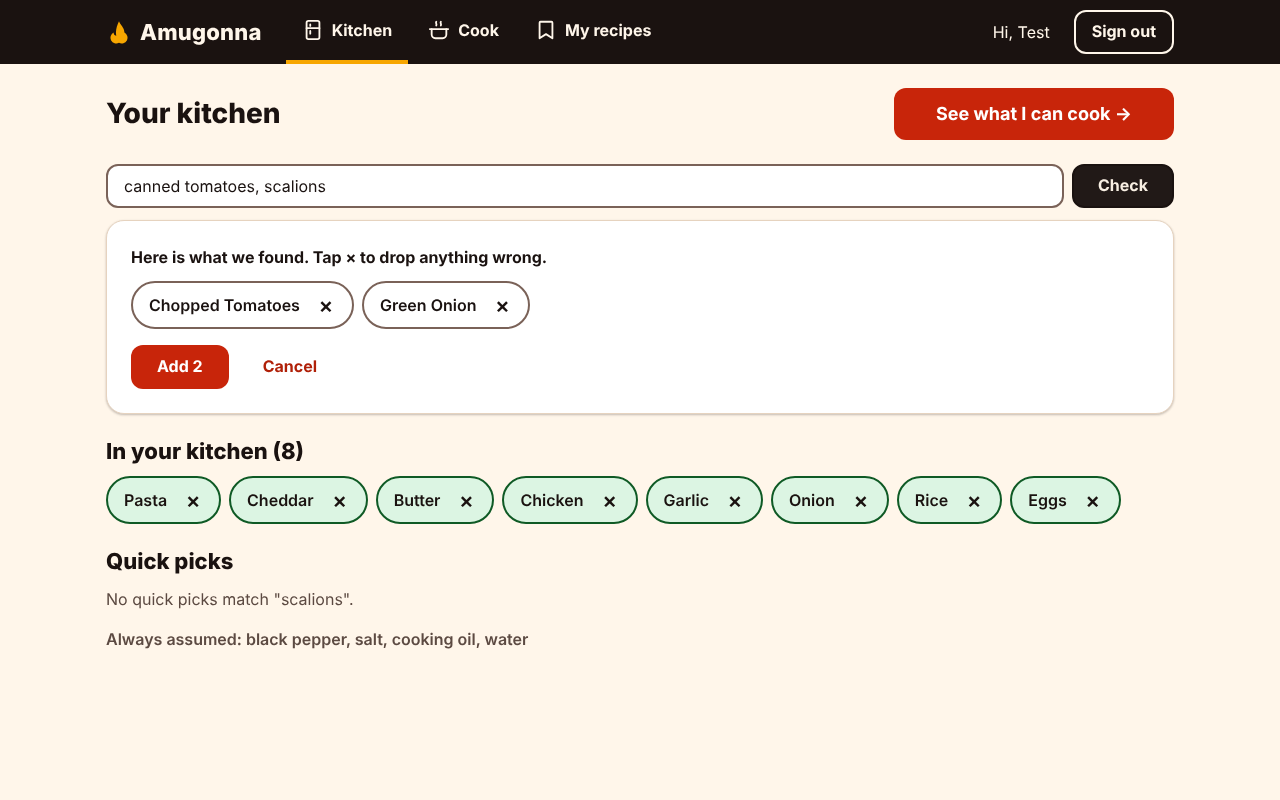
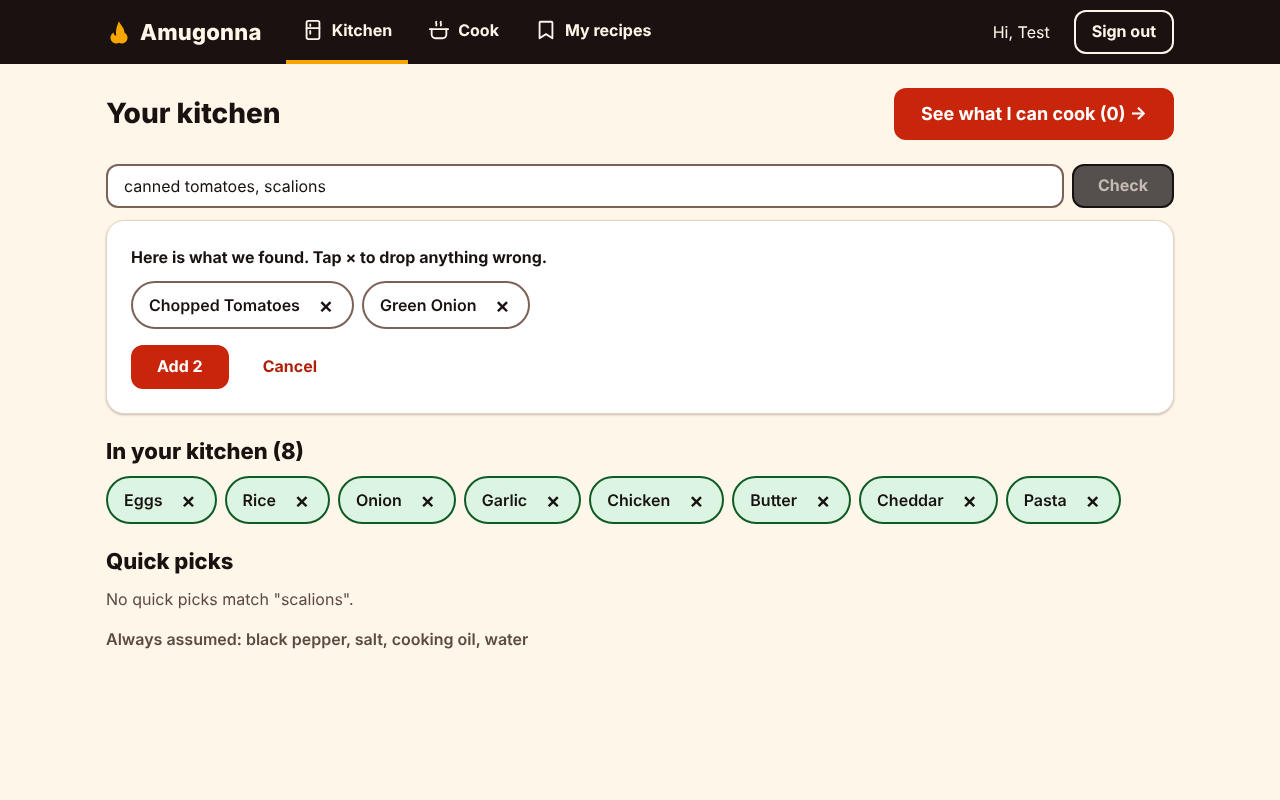
chief: M1 report, scorecard, state
Claude-Session: https://claude.ai/code/session_015cfRsG7aAS7fevAG5pef3S

Changed region(s): [[0.0938, 0.5938, 0.8438, 0.6562], [0.8125, 0.1875, 0.9375, 0.2812], [0.7188, 0.125, 0.9062, 0.1562]]

diff --git a/docs/milestones/M1.md b/docs/milestones/M1.md
@@ -1,37 +1,111 @@
-# Milestone 1: Cook from my pantry — PLAN
-
-_Plan written 2026-10-28 by chief (unattended cloud run). The owner pre-authorised this build in the scheduled prompt of 2026-10-28; the report replaces this page at milestone end._
+# Milestone 1: Cook from my pantry
 
 **Done-gate:** "On my phone or my computer I put what's in my fridge and pantry into Amugonna, and within seconds of finishing I see recipes I can make with it, open one, and cook the meal from that screen."
 
-Exercised as: a Playwright run at 390x844 (phone) and 1280x800 (desktop) that signs up, ticks common items + types free-text items, sees a non-empty "Cook now" list, opens a recipe and sees ingredients (have / missing) and numbered steps. Results must render in under 1 second after the pantry is saved.
+**Status:** passes in automated runs at phone (390x844) and desktop (1280x800) sizes against the real server and database. You have not tried it yet.
 
-## Recipe source, in one line
-Bulk-scraping recipe sites into a public app is legally risky, so the base is the free, licence-clean TheMealDB catalogue (imported with attribution into our own Postgres by a script, not committed to git); social-media / URL recipes come later as a user's own "bring your own" import that is never redistributed.
+- **Speed:** "Cook now" shows 100–330 ms after you tap "See what I can cook" (e2e log, both sizes). Free text is checked in about 145 ms. With 98 pantry items, Kitchen loads in about 180 ms and Cook in about 140 ms (final QA pass).
+- **Real recipe base:** a full TheMealDB import ran in GitHub Actions (this sandbox can't reach themealdb.com): **790 recipes**, 0 failures. **97.0%** of ingredient lines (8,090 of 8,336) are recognised by our ingredient vocabulary. Results for three reference pantries ([details](../chief/research/mealdb-live-2026-10-28.md)):
 
-## Scope
+  | Pantry | Cook now | 1 ingredient away |
+  |---|---|---|
+  | 8 basics (eggs, rice, onion, garlic, chicken, pasta, tinned tomatoes, cheddar) | 0 | 14 |
+  | + butter, milk, flour, sugar, lemon, potato, carrot, bread (16) | 8 | 51 |
+  | well stocked (34) | 24 | 69 |
+- **No false "you have it":** the final QA pass checked every "Cook now" recipe for 5 different pantries ingredient by ingredient and found no recipe recommended that you can't make. Substitutions are always shown ("using parmesan for feta").
+- **Tests at the head:** server 679 and client 95 unit/integration tests; 8 Playwright e2e specs (done-gate, Cook-tab race, CTA count under slow network, phone confirm tap), each on phone and desktop sizes; GitHub CI green. _(Final numbers re-checked at hand-over; see the PR checks.)_
 
-| Issue | What | Specialist | Blocked by |
-|---|---|---|---|
-| [#2](https://github.com/thomas-tahk/amugonna/issues/2) | Foundation: tests, CI, Prisma migrations, remove sync-docs, fresh docs | backend-engineer | — |
-| [#3](https://github.com/thomas-tahk/amugonna/issues/3) | Ingredient normalizer: canonical names, synonyms, plurals, hierarchy, staples, fuzzy suggest | backend-engineer | — |
-| [#4](https://github.com/thomas-tahk/amugonna/issues/4) | Design system + app shell (saturated, high contrast, phone + desktop) | frontend-engineer | — |
-| [#5](https://github.com/thomas-tahk/amugonna/issues/5) | Recipe schema + TheMealDB importer + new seed | database-engineer | #2, #3 |
-| [#6](https://github.com/thomas-tahk/amugonna/issues/6) | Matching engine v2 + suggestions / recipe-detail API | backend-engineer | #3, #5 |
-| [#7](https://github.com/thomas-tahk/amugonna/issues/7) | Pantry entry API: common items, fuzzy suggest, bulk + free-text add | backend-engineer | #3, #5 |
-| [#8](https://github.com/thomas-tahk/amugonna/issues/8) | Pantry screen: tap-to-tick + free text | frontend-engineer | #7, #4 |
-| [#9](https://github.com/thomas-tahk/amugonna/issues/9) | Results ("Cook now" / "1 ingredient away") + cook view | frontend-engineer | #6, #4 |
-| [#10](https://github.com/thomas-tahk/amugonna/issues/10) | Live TheMealDB import + match report in CI | backend-engineer | #5, #6 |
-| [#11](https://github.com/thomas-tahk/amugonna/issues/11) | Done-gate end-to-end test (phone + desktop) in CI | qa-engineer | #8, #9 |
+**Scorecard so far:** [`docs/chief/scorecard.md`](../chief/scorecard.md). First-pass reviews 0/9 (every reviewed issue needed a fix round), merged/planned 10/10 plus 2 added (0 stuck). Escaped bugs and guesses kept get filled in after you play it.
 
-## Cut from M1 (and why)
-- **Wikibooks Cookbook import** — wikitext is free-form and needs a real parser plus hand review; the cloud sandbox can't reach wikibooks.org to build it against real pages. Moved to M2 if the TheMealDB match report shows the base is thin.
-- **Dietary / allergy filtering** — tables exist but filtering needs the normalized vocabulary first; M2.
-- **Photo-to-pantry, AI re-rank, BYO import, deploy** — later milestones per the owner's answers.
-- **Grocery links** — only a "copy missing items" button (nearly free).
+## How to try it
 
-## Hosting options (owner picks; none idle-pause)
-Prices are from third-party 2026 pricing summaries, not the providers' own pages; confirm before buying.
-1. **Railway Hobby** — $5/month minimum that includes $5 of usage; app + Postgres metered on top, realistically ~$5-20/month for this app.
-2. **DigitalOcean** (the original CLAUDE.md choice) — a Basic droplet (~$6/month) running the app and Postgres yourself, or App Platform (~$5/month) + Managed Postgres (~$15/month) for no server upkeep.
-3. **Render paid** — Starter web service (~$7/month, always on) + paid Postgres (~$6/month+); the free tier sleeps and its free Postgres expires, so not that.
+On your Mac, from the repo:
+
+```bash
+git fetch && git checkout m1-cook-from-pantry
+npm ci
+# server/.env needs DATABASE_URL, DIRECT_URL, JWT_SECRET (see server/.env.example).
+# Point it at a LOCAL database for trying this, not the live one.
+cd server && npx prisma migrate deploy && npm run seed
+npm run import:mealdb        # optional but recommended: ~790 real recipes, about 1 minute
+cd .. && npm run dev
+```
+
+Open the address Vite prints (usually http://localhost:5173), on your computer or on your phone on the same Wi-Fi (use your Mac's IP). Then:
+
+1. Sign up.
+2. **Kitchen:** tap what you have in the quick picks, or type a line like `eggs, leftover rice, half an onion, spinach, parmesan` and tap **Check**. Remove any chip that's wrong, then tap **Add**.
+3. Tap **See what I can cook (N)**.
+4. **Cook:** pick from "Cook now", or from "1 ingredient away" (it names the missing item).
+5. In the recipe, missing items are at the top with **Copy missing items**. Tap a step to tick it off. The screen stays awake while the recipe is open.
+
+Without the import you only get the 21 starter recipes plus 30 "Amugonna test fixture" recipes, which the dev seed adds so the tests have data. `NODE_ENV=production npm run seed` leaves the test recipes out.
+
+Watch for:
+- Whether the things you actually keep are recognised when you type them. Unknown items get a yellow **new** badge.
+- Whether "Cook now" ever suggests something you can't actually make. That is the bug that matters most.
+- The look (paprika red, herb green, amber, near-black on warm off-white), and the bottom tab bar on your phone.
+
+## What was built (12 issues, branch `m1-cook-from-pantry`)
+
+| Issue | Built |
+|---|---|
+| [#2](https://github.com/thomas-tahk/amugonna/issues/2) Foundation | `sync-docs` removed (it kept rewriting the docs with old OpenAI text); Prisma baseline migration; one-command `npm ci`; Vitest in server and client; GitHub CI |
+| [#3](https://github.com/thomas-tahk/amugonna/issues/3) Ingredient normalizer | ~500-ingredient vocabulary, plus synonyms, plurals, descriptors and quantities, one-level families (chicken thigh → chicken), staples, typo-tolerant suggestions, have / swap / missing / assumed |
+| [#4](https://github.com/thomas-tahk/amugonna/issues/4) Design system + shell | Saturated, high-contrast tokens (AA-checked by a test); Kitchen / Cook / My recipes tabs: a bottom bar on phones, top tabs on desktop |
+| [#5](https://github.com/thomas-tahk/amugonna/issues/5) Recipe base | Migration for canonical ingredients and recipe source/attribution; idempotent TheMealDB importer; new seed |
+| [#6](https://github.com/thomas-tahk/amugonna/issues/6) Matching | Cook now / 1 away / 2 away, missing and swaps named, about 10 ms for 1,000 recipes; recipe detail annotated per ingredient |
+| [#7](https://github.com/thomas-tahk/amugonna/issues/7) Pantry API | Quick picks, typo-tolerant type-ahead, bulk add/remove, free-text parse |
+| [#8](https://github.com/thomas-tahk/amugonna/issues/8) Kitchen screen | Tap-to-tick by category plus free text with confirm chips; saves in batches; "See what I can cook (N)" |
+| [#9](https://github.com/thomas-tahk/amugonna/issues/9) Cook screen + cook view | Results lists, compact phone cards, ingredient badges, tappable steps, copy missing items, screen wake lock |
+| [#10](https://github.com/thomas-tahk/amugonna/issues/10) Live import + report | `mealdb-live` Actions job: real import plus match report (weekly, and on demand) |
+| [#11](https://github.com/thomas-tahk/amugonna/issues/11) Done-gate e2e | Playwright done-gate at phone and desktop sizes, in CI |
+| [#12](https://github.com/thomas-tahk/amugonna/issues/12) Vocabulary pass _(added)_ | From the real catalogue: 89.7% → 97.0% of lines recognised |
+| [#20](https://github.com/thomas-tahk/amugonna/issues/20) Typed phrases _(from QA)_ | "leftover rice", "tin of tomatoes", "bag of spinach", "low sodium soy sauce"… now resolve correctly |
+
+**Fixed along the way:**
+- Reviews caught false "you have it" matches before merge: lemon juice counting as lemons, steak as mince, "chicken or vegetable broth" read as chicken, bean sprouts as mung beans, rice flour as flour, and 6 more.
+- The Cook tab showed "kitchen is empty" if tapped right after ticking items ([#13](https://github.com/thomas-tahk/amugonna/issues/13)), and a tap was lost on a quick reload ([#14](https://github.com/thomas-tahk/amugonna/issues/14)).
+- The CTA showed a stale "(0)" count while saving; this was the GitHub CI e2e failure.
+- My recipes hung on a spinner ([#17](https://github.com/thomas-tahk/amugonna/issues/17)).
+- The old ingredient search route showed other users' typed items to anyone, without sign-in.
+- Tests could write into whatever database `server/.env` pointed at. They now only run against a database whose name contains "test".
+- The server now refuses to start without `JWT_SECRET`.
+- From QA: the phone confirm panel's Add button was covered by the sticky bar ([#16](https://github.com/thomas-tahk/amugonna/issues/16)); keyboard focus ring and focus moves ([#18](https://github.com/thomas-tahk/amugonna/issues/18), [#19](https://github.com/thomas-tahk/amugonna/issues/19)); visible error toasts ([#21](https://github.com/thomas-tahk/amugonna/issues/21)); sign-in again on an expired session ([#22](https://github.com/thomas-tahk/amugonna/issues/22)); tabs and recipes have URLs, so Back and reload work ([#23](https://github.com/thomas-tahk/amugonna/issues/23)); plain-language errors ([#24](https://github.com/thomas-tahk/amugonna/issues/24)); slimmer image placeholder ([#25](https://github.com/thomas-tahk/amugonna/issues/25)).
+
+**Cut from M1, and why:**
+- **Wikibooks Cookbook import:** free-form wikitext needs a parser and hand review, and the sandbox can't reach wikibooks.org. At 97% recognition on 790 recipes it isn't urgent.
+- **Dietary/allergy filters:** M2. One known gap: chicken stock counts as a swap for vegetable stock.
+- **Photo-to-pantry, AI, bring-your-own import, deploy:** later milestones, per your answers.
+
+**Known, not fixed:**
+- An 8-item pantry of pure basics finds nothing to cook *right now* in the real catalogue (most recipes also need butter, milk, herbs and so on), but 14 recipes are 1 away. Matching is deliberately strict: tinned tomatoes don't count as fresh, and ground beef doesn't count as steak. See decision 3.
+- `server/src/lib/ingredients/vocabulary.ts` is hand-curated; about 3% of real ingredient lines are still unknown (vague ones like "seasoning", "starch", "fruit mix").
+- No rate limiting on sign-in or sign-up yet. Any signed-in user can publish a public recipe, which then shows in everyone's Cook results. Both are M2.
+- The `mealdb-live` workflow only runs from the milestone branch until this merges. After that, it runs weekly and on demand from main.
+- Tested in Chromium with phone emulation, not on a real iPhone or Safari.
+- The leftover branch `m1-live-probe` (a measurement run) is still on GitHub. The sandbox couldn't delete it; you can delete it.
+
+**Stuck:** none.
+
+**Recipe source, in one line:** bulk-scraping recipe sites into a public app is legally risky, so the base is TheMealDB's free catalogue, imported with attribution into your own database by a script and never committed to git. Social-media and URL recipes come later as each user's own "bring your own" import, never redistributed.
+
+## Decisions that need you (most important first)
+
+1. **Before you merge: run one command against the live database.** It was created with `db push`, so the first deploy after merge (Render runs `prisma migrate deploy`) fails unless you first run `npx prisma migrate resolve --applied 20260101000000_init` with the live `DATABASE_URL`. Then merge, then `NODE_ENV=production npm run seed` against it. The exact order is in [`server/setup-database.md`](../../server/setup-database.md). I tested it on a copy of a db-push database, and pantry rows survive. Alternatively, don't merge until you've picked a host (decision 2).
+2. **Pick a host.** None of these sleep when idle. Prices are from third-party 2026 summaries, so confirm them:
+   - **Railway Hobby:** $5/month minimum including $5 of usage. App plus Postgres realistically ~$5–20/month. Least setup.
+   - **DigitalOcean** (your original choice): a ~$6/month droplet running app and Postgres yourself; or App Platform (~$5) + Managed Postgres (~$15) for no server upkeep.
+   - **Render paid:** Starter web (~$7/month) + paid Postgres (~$6/month+). The free tier sleeps and its Postgres expires, so not that.
+
+   My pick: **Railway** for now (cheapest with no server upkeep); move later if it grows.
+3. **How strict should "Cook now" be?** I built it strict:
+   - **Always assumed:** water, salt, black pepper and cooking oil.
+   - **Everything else must be in your kitchen.** Tinned tomatoes ≠ fresh. Swaps within a family (cheddar for parmesan) count, but are labelled.
+
+   The cheap alternative is a short "I always have these" list you tick once, for example butter, milk, flour, sugar and dried herbs. In the real catalogue that moves a basic kitchen from 0 to about 8 cook-now recipes. Keep strict, or add the list in M2?
+4. **TheMealDB key.** The free key "1" is for development and education; third-party summaries say a public or app-store release needs a supporter key (reported as about £10 one-off or a small Patreon). I couldn't open their terms page from the sandbox. Before any public launch, read https://www.themealdb.com/terms_of_use.php and buy the key if it says so. Nothing to do while it's just you.
+5. **The look.** Paprika-red primary, herb green for "have", amber for "1 away" and swaps, near-black on warm off-white, and a bottom tab bar on phones. Screenshots are in [`m1-evidence/`](m1-evidence/) (`e2e-phone-*.png` are real runs). Keep or redirect?
+6. **Revoke the old OpenAI key** in your local `server/.env` (flagged in the first audit). No code uses it, and M1 needs no API keys.
+
+Every other interpretation I made is in [`docs/questions/M1.md`](../questions/M1.md). The original plan is in this file's git history ([`docs/milestones/M1-api.md`](M1-api.md) holds the API contract).

diff --git a/docs/chief/STATE.md b/docs/chief/STATE.md
@@ -1,9 +1,10 @@
 # Chief state
 Vision: docs/chief/vision.md (done-gate revised + owner answers 2026-10-28)
-Phase: Build — M1 (branch m1-cook-from-pantry). Merged: #2 foundation, #4 design system. CI green.
-Plan: docs/milestones/M1.md; GitHub milestone M1 = issues #2-#11. Pre-authorised by the owner's scheduled prompt of 2026-10-28 (counts as plan approval).
-Next action: building #5 recipe base, #8 Kitchen, #9 Cook (against docs/milestones/M1-api.md); reviewing #3; then #6, #7, #10, #11
-Waiting on him: nothing yet
+Phase: Review — M1 "Cook from my pantry" built on branch m1-cook-from-pantry (off chief); PR into main is the hand-off
+Report: docs/milestones/M1.md (how to try it, evidence, 6 decisions)
+Next action: owner plays M1 and answers the decisions; then fill scorecard escaped bugs / guesses kept and route (fixes -> Build, new direction -> Plan M2)
+Waiting on him: the 6 decisions in docs/milestones/M1.md (first: run `prisma migrate resolve` on the live DB before merging)
 Open questions: docs/questions/M1.md
-Network note: cloud sandbox blocks themealdb.com and wikibooks.org; live import runs in GitHub Actions (#10)
+Network note: cloud sandbox blocks themealdb.com / wikibooks.org; live import + match report run in GitHub Actions (mealdb-live.yml)
+Leftover: remote branch m1-live-probe (sandbox couldn't delete it)
 Updated: 2026-10-28

diff --git a/docs/chief/scorecard.md b/docs/chief/scorecard.md
@@ -1,0 +1,3 @@
+| Milestone | Escaped bugs | Unplanned interventions | Guesses kept | First-pass reviews | Merged / planned (stuck) | Wall time |
+|---|---|---|---|---|---|---|
+| M1 | _after owner plays it_ | 0 | _after review_ | 0/9 | 10/10 + 2 added (0) | 1 unattended session (2026-10-28) |
